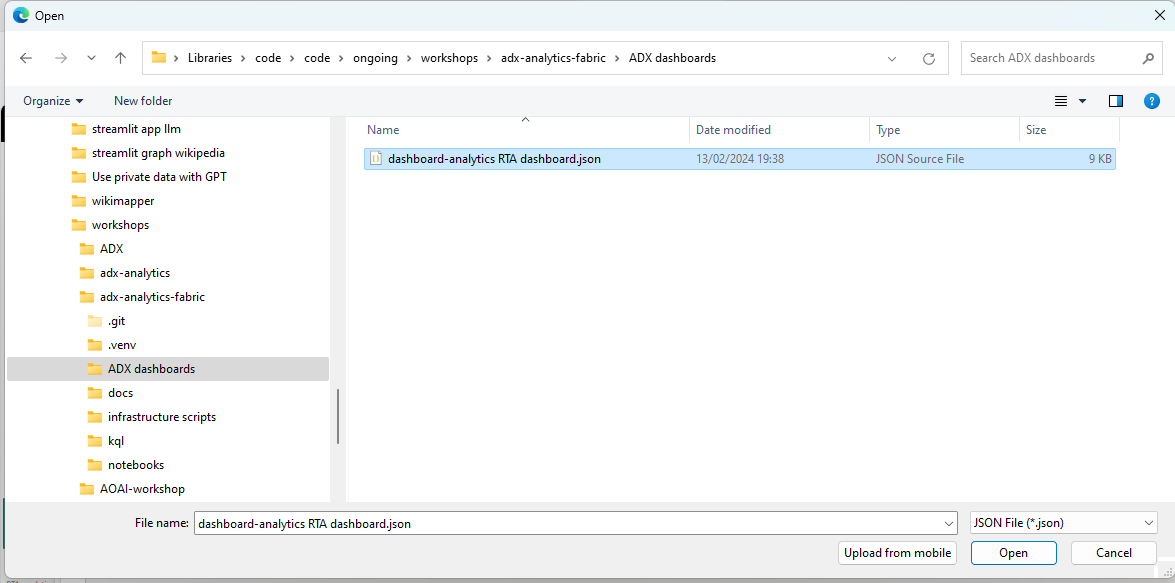
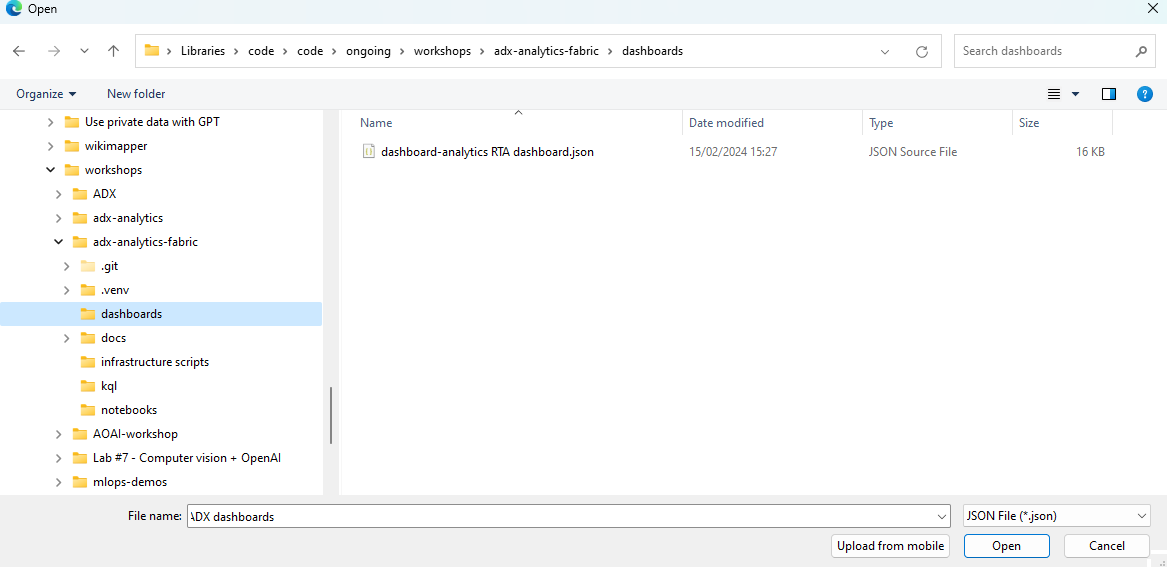
dashboards

diff --git a/docs/workshop.md b/docs/workshop.md
@@ -153,24 +153,27 @@ Open Azure Data Studio and connect to our SQL DB.
 ---
 
 # Building the Analytics platform
-* Create a Fabric Workspace
+## Fabric Workspace 
+Create a Fabric Workspace
 ![alt text](assets/fabric1.png)
 ![alt text](assets/fabric2.png)
-* Create a KQL DB - this is our analytics DB
+## KQL DB
+Create a KQL DB - this is our analytics DB
 ![alt text](assets/fabric3.png)
 ![alt text](assets/fabric4.png)
-* Go to the github repo for this tutorial and copy the KQL commands in the file:  
+Go to the github repo for this tutorial and copy the KQL commands in the file:  
 [KQL script](<https://github.com/denisa-ms/adx-analytics-fabric/blob/main/kql/createAll.kql>)
 ![alt text](assets/fabric5.png)
-* Paste them in the KQL DB data explore pane
+Paste them in the KQL DB data explore pane
 ![alt text](assets/fabric6.png)
-* Go to the Azure portal and copy the sql servername we created in the deployment scripts  
+Go to the Azure portal and copy the sql servername we created in the deployment scripts  
 ![alt text](assets/fabric5-1.png)
-* Paste it in the KQL DB data explore pane for the external table creation  
+Paste it in the KQL DB data explore pane for the external table creation  
 ![alt text](assets/fabric6-1.png)
-* Run all commands in the KQL DB data explore pane one by one to create all the tables, update policies and materialized views  
+Run all commands in the KQL DB data explore pane one by one to create all the tables, update policies and materialized views  
 ![alt text](assets/fabric7.png)
-* Create a Data pipeline to copy the data from the SQL DB orders table to our KQL DB using CDC
+## Data pipeline
+Create a Data pipeline to copy the data from the SQL DB orders table to our KQL DB using CDC
 ![alt text](assets/fabric8.png)
 ![alt text](assets/fabric9.png)
 ![alt text](assets/fabric10.png)
@@ -182,28 +185,30 @@ Open Azure Data Studio and connect to our SQL DB.
 ![alt text](assets/fabric16.png)
 ![alt text](assets/fabric17.png)
 ![alt text](assets/fabric18.png)
-* Run a KQL command to check the orders were copied into our KQL DB
+Run a KQL command to check the orders were copied into our KQL DB
 ![alt text](assets/fabric19.png)
-* Import the notebooks to generate sytnetic data from the githup repo here:  
+## Notebooks
+Import the notebooks to generate sytnetic data from the githup repo here:  
 [Notebooks](<https://github.com/denisa-ms/adx-analytics-fabric/tree/main/notebooks>)
 ![alt text](assets/fabric20.png)
 ![alt text](assets/fabric21.png)
 ![alt text](assets/fabric22.png)
 ![alt text](assets/fabric22-1.png)
-* In order for the notebooks to run, we will create an environment with the imported python libraries to be used when running the notebooks.
+In order for the notebooks to run, we will create an environment with the imported python libraries to be used when running the notebooks.
 ![alt text](assets/fabric25.png)
 ![alt text](assets/fabric27.png)
 ![alt text](assets/fabric28.png)
-* Connect the Notebook to the created environment
+Connect the Notebook to the created environment
 ![alt text](assets/fabric28-1.png)
 ![alt text](assets/fabric28-2.png)
-* Go to the azure portal and create a shared access policy for the event hub created in the deployment and copy it
+Go to the azure portal and create a shared access policy for the event hub created in the deployment and copy it
 ![alt text](assets/fabric28-3.png)
-* Paste the event hub connection string into the notebook to generate synthetic events
+Paste the event hub connection string into the notebook to generate synthetic events
 ![alt text](assets/fabric28-4.png)
-* Run the notebook's cells to generate "fake" impressions and clicks events and stream them to our event hubs
+Run the notebook's cells to generate "fake" impressions and clicks events and stream them to our event hubs
 ![alt text](assets/fabric28-5.png)
-* Create an eventstream to stream events from event hub to our KQL DB
+## Eventstream 
+Create an eventstream to stream events from event hub to our KQL DB
 ![alt text](assets/fabric30.png)
 ![alt text](assets/fabric31.png)
 ![alt text](assets/fabric32.png)
@@ -219,18 +224,22 @@ Open Azure Data Studio and connect to our SQL DB.
 ![alt text](assets/fabric42.png)
 ![alt text](assets/fabric43.png)
 ![alt text](assets/fabric44.png)
-* Run a KQL query to check the incoming events in the clicks table
+Run a KQL query to check the incoming events in the clicks table
 ![alt text](assets/fabric45.png)
-* Download the JSON file defining the dashboard located at [RTA Dashboard](<https://github.com/denisa-ms/adx-analytics-fabric/tree/main/notebooks>)
-* Go to our KQL DB in the Fabric Workspace to copy the KQL cluster URI and paste it in the json file defining the dashboard
+## Dashboard
+Download the JSON file defining the dashboard located at [RTA Dashboard](<https://github.com/denisa-ms/adx-analytics-fabric/blob/main/dashboards/dashboard-analytics%20RTA%20dashboard.json>)
+Go to our KQL DB in the Fabric Workspace to copy the KQL cluster URI and paste it in the json file defining the dashboard, save the file  
 ![alt text](assets/fabric45-1.png)
-* Create a Real time analytics Dashboard to visualize the data
+![alt text](assets/fabric45-2.png)
+![alt text](assets/fabric45-3.png)
+Create a Real time analytics Dashboard to visualize the data
 ![alt text](assets/fabric46.png)
 ![alt text](assets/fabric47.png)
 ![alt text](assets/fabric48.png)
 ![alt text](assets/fabric49.png)
 ![alt text](assets/fabric50.png)
-![alt text](assets/fabric51.png)
-![alt text](assets/fabric52.png)
-![alt text](assets/fabric53.png)
+Visualize the streaming data that will be refreshed every 30 seconds, or manually refresh it to save the changes
 ![alt text](assets/fabric54.png)
+Stop running the notebook
+![alt text](assets/fabric55.png)
+

diff --git a/README.md b/README.md
@@ -1,0 +1,4 @@
+# Building a Fabric Real time analytics platform in less than 1 hour
+
+Please follow the tutorial here to build this:  
+
